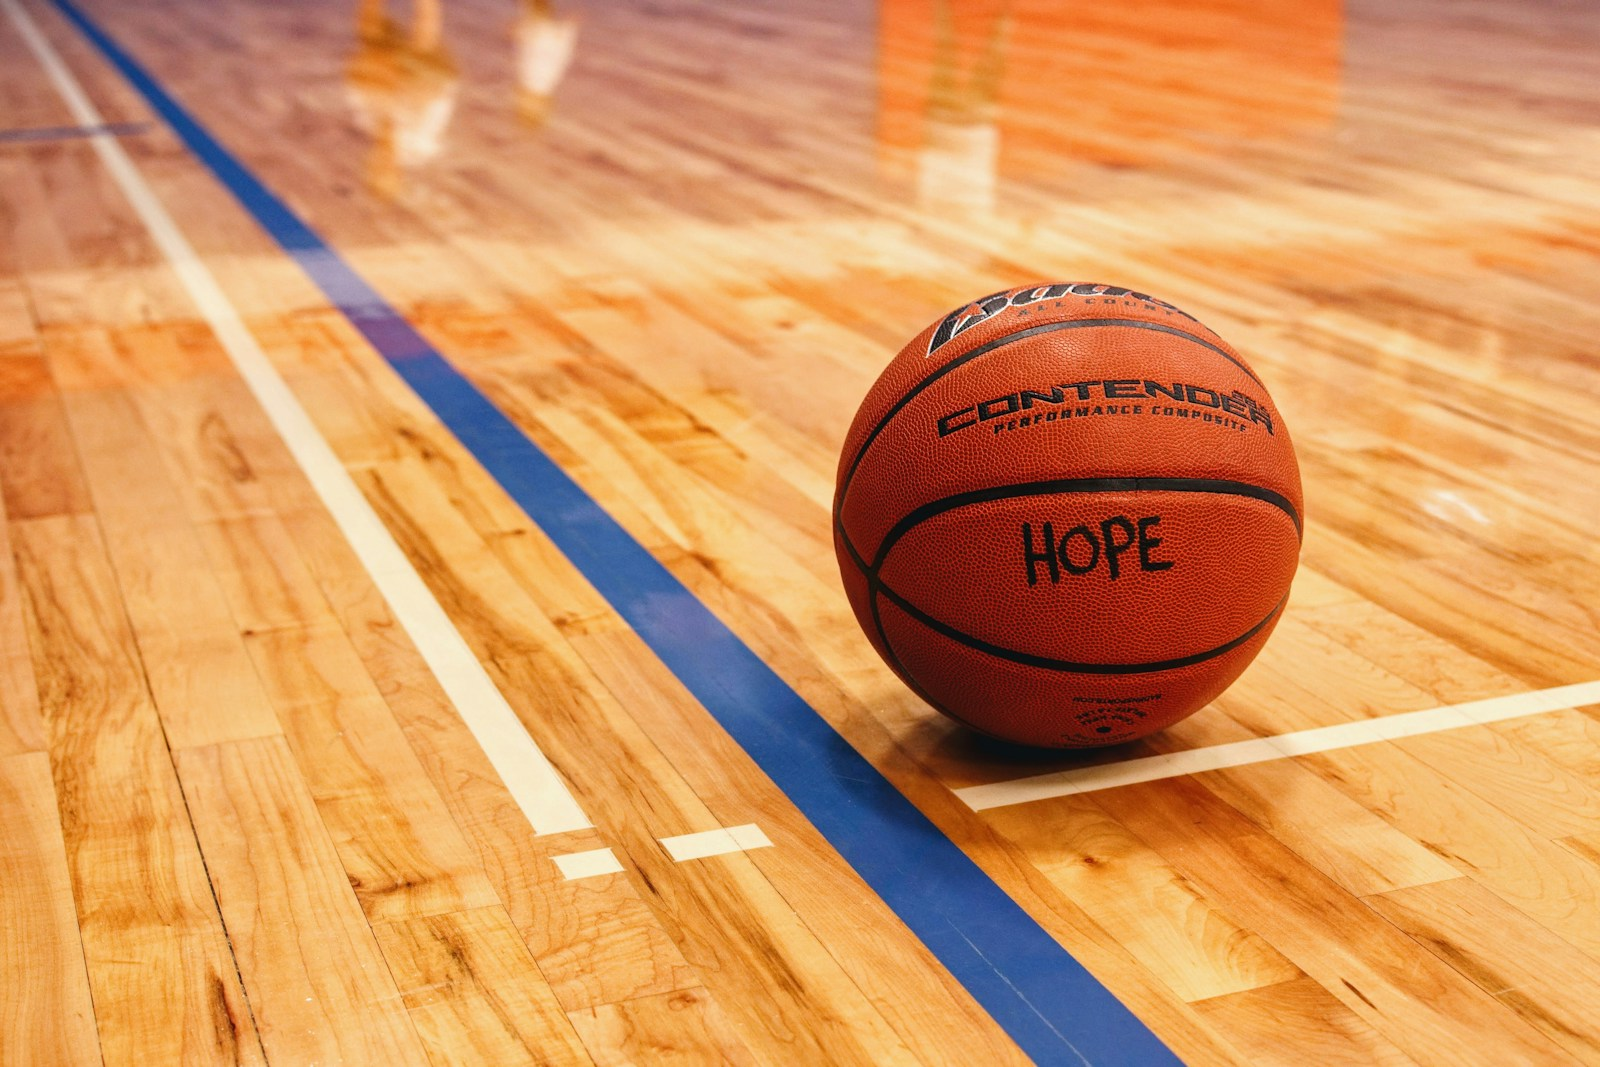
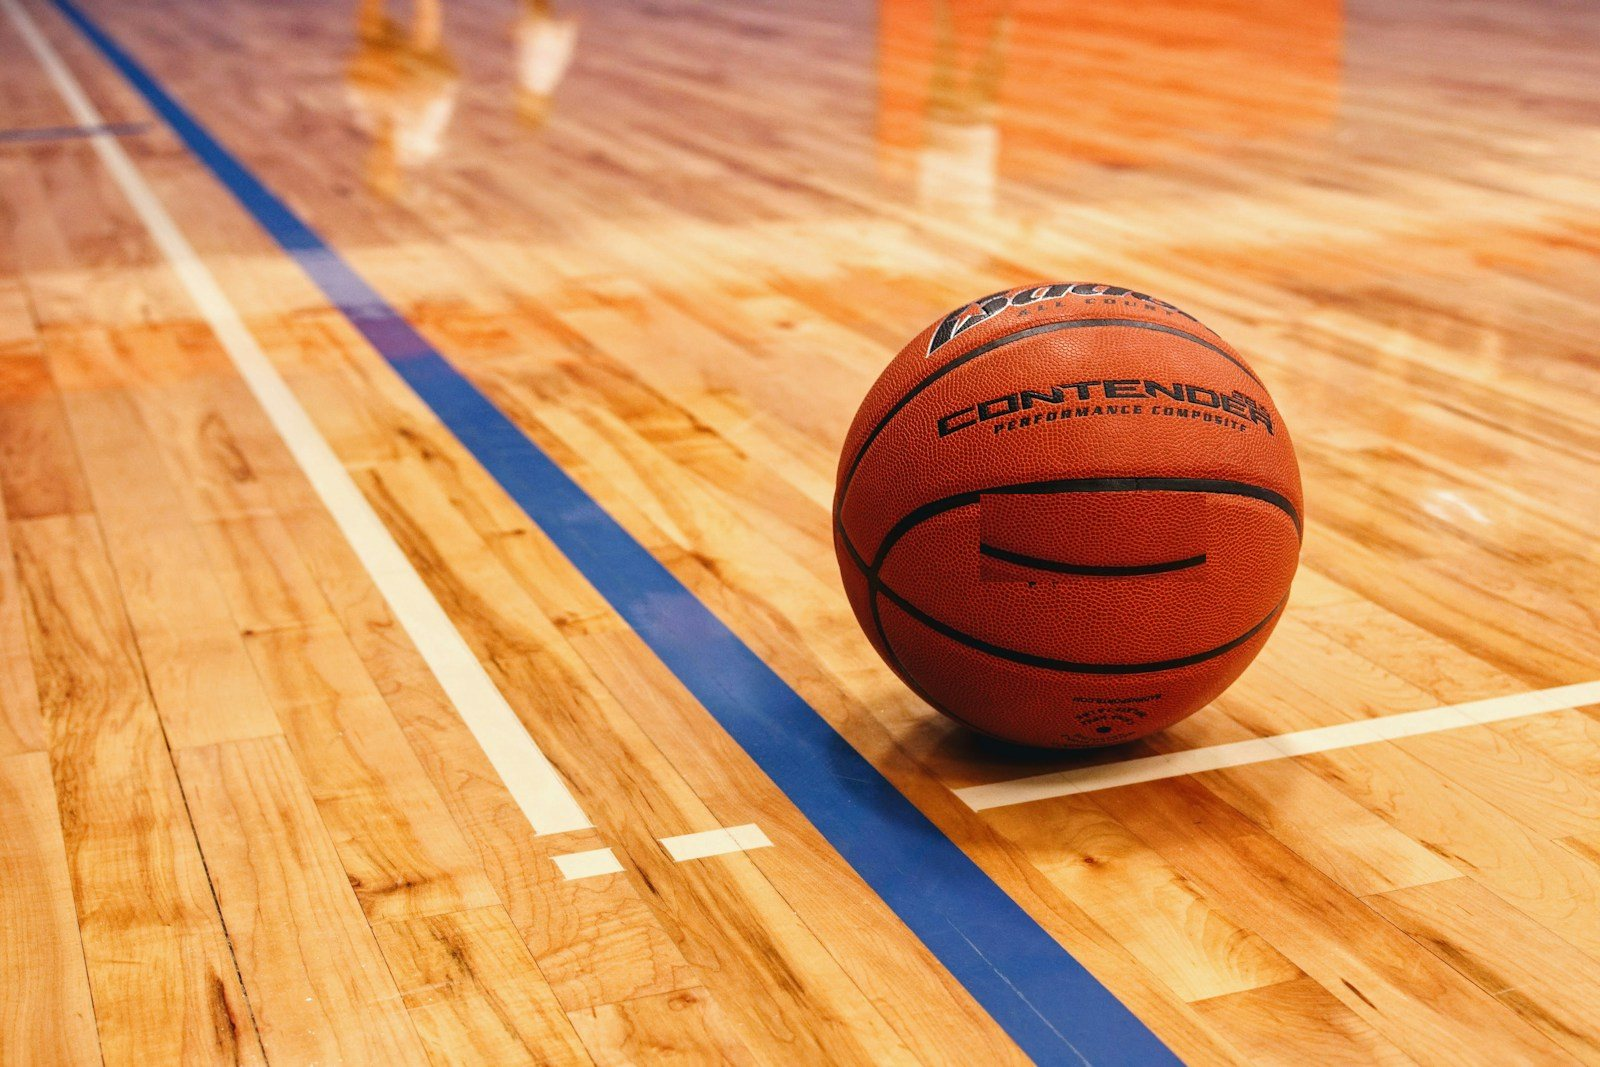
Hero: remove "HOPE" from the ball + darken further
- Patch out the handwritten "HOPE" on the basketball (seam-aligned clean
  texture, feathered) in public/hero-court.jpg.
- Increase the hero overlay darkness another step.

Changed region(s): [[0.5938, 0.4639, 0.75, 0.5567]]

diff --git a/web/app/page.tsx b/web/app/page.tsx
@@ -36,7 +36,7 @@ export default async function FrontDoor() {
           style={{
             backgroundColor: "#0A0E14",
             backgroundImage:
-              "linear-gradient(180deg, rgba(6,9,13,.95) 0%, rgba(6,9,13,.82) 42%, rgba(6,9,13,.66) 72%, rgba(6,9,13,.80) 100%), url(/hero-court.jpg)",
+              "linear-gradient(180deg, rgba(6,9,13,.96) 0%, rgba(6,9,13,.88) 42%, rgba(6,9,13,.76) 72%, rgba(6,9,13,.88) 100%), url(/hero-court.jpg)",
             backgroundSize: "cover, cover",
             backgroundPosition: "center, center 55%",
           }}